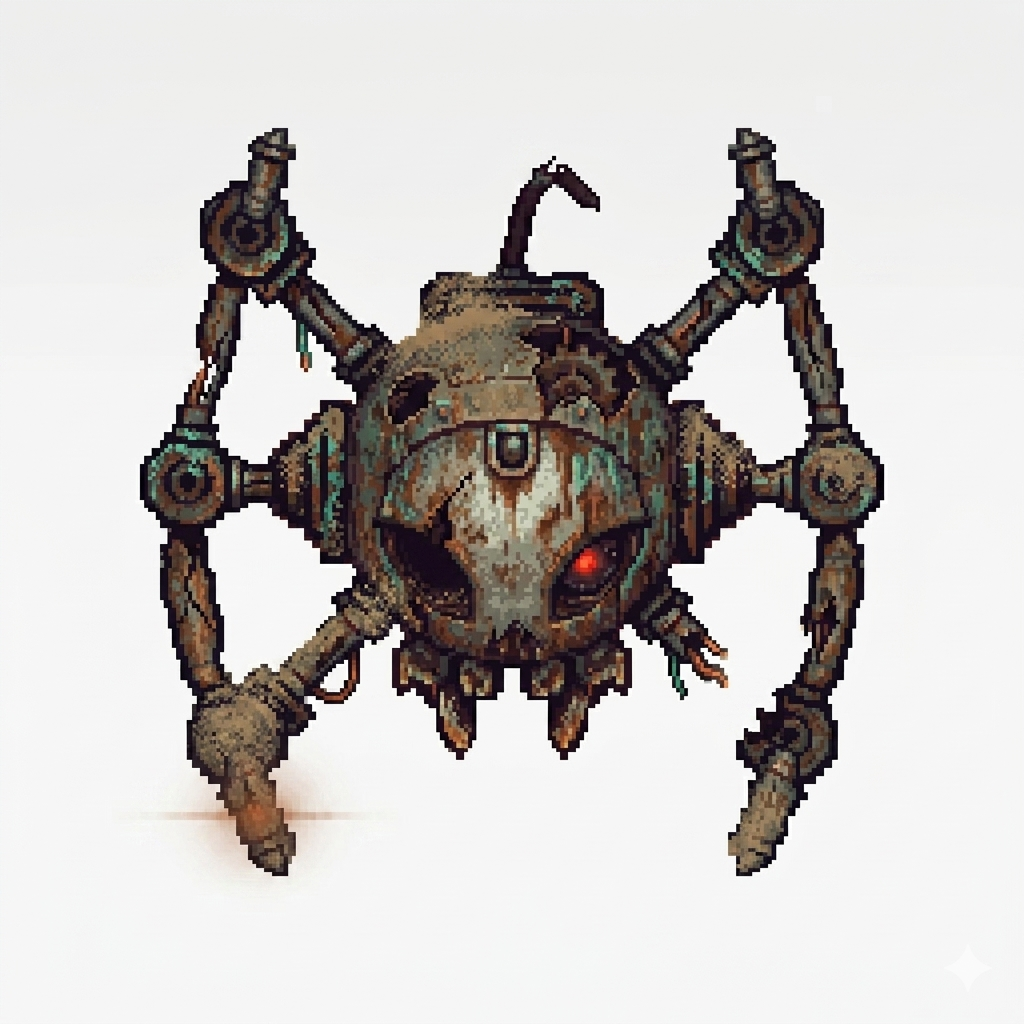
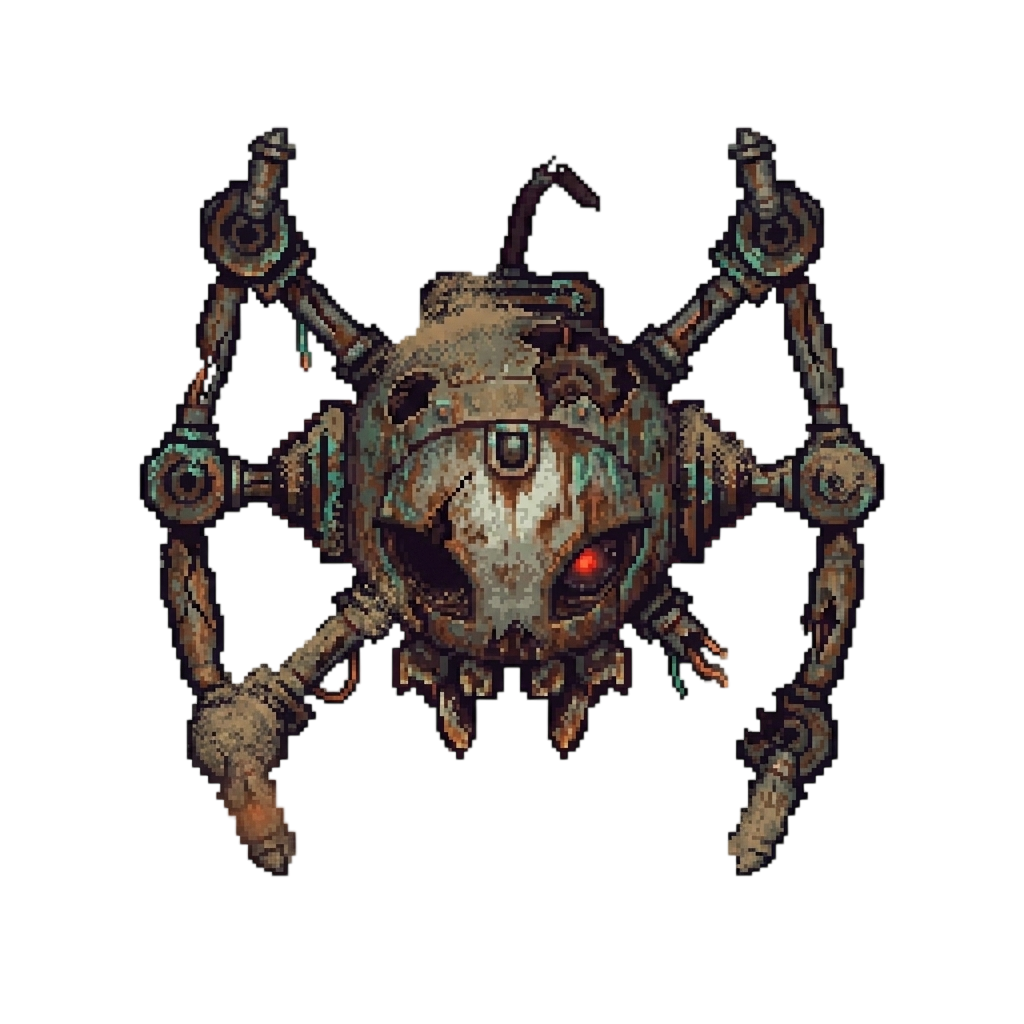
fix: consertando hitbox da arena e pngs falsos
- Eliminando o background falso dos assets dos inimigos
- Ajustando a hitbox da arena (Tentativa e erro)

diff --git a/js/colisao.js b/js/colisao.js
@@ -13,20 +13,20 @@ export default class Colisao {
         this.paredesRelativas = [
 
             // CANTO SUPERIOR ESQUERDO
-            { xPct: 0.172, yPct: 0.134, larguraPct: 0.277, alturaPct: 0.063 },
-            { xPct: 0.176, yPct: 0.134, larguraPct: 0.028, alturaPct: 0.352 },
+            { xPct: 0.170, yPct: 0.134, larguraPct: 0.275, alturaPct: 0.064 },
+            { xPct: 0.176, yPct: 0.134, larguraPct: 0.028, alturaPct: 0.325 },
 
             // CANTO SUPERIOR DIREITO
-            { xPct: 0.584, yPct: 0.141, larguraPct: 0.259, alturaPct: 0.056 },
-            { xPct: 0.822, yPct: 0.141, larguraPct: 0.027, alturaPct: 0.352 },
+            { xPct: 0.574, yPct: 0.137, larguraPct: 0.251, alturaPct: 0.060 },
+            { xPct: 0.802, yPct: 0.131, larguraPct: 0.027, alturaPct: 0.335 },
 
             // CANTO INFERIOR ESQUERDO
-            { xPct: 0.176, yPct: 0.577, larguraPct: 0.035, alturaPct: 0.282 },
-            { xPct: 0.176, yPct: 0.804, larguraPct: 0.268, alturaPct: 0.056 },
+            { xPct: 0.170, yPct: 0.575, larguraPct: 0.030, alturaPct: 0.265 },
+            { xPct: 0.170, yPct: 0.804, larguraPct: 0.260, alturaPct: 0.040 },
 
             // CANTO INFERIOR DIREITO
-            { xPct: 0.817, yPct: 0.563, larguraPct: 0.035, alturaPct: 0.296 },
-            { xPct: 0.570, yPct: 0.795, larguraPct: 0.282, alturaPct: 0.063 },
+            { xPct: 0.800, yPct: 0.550, larguraPct: 0.035, alturaPct: 0.296 },
+            { xPct: 0.558, yPct: 0.795, larguraPct: 0.275, alturaPct: 0.050 },
         ];
 
         // desenha paredes debug

diff --git a/css/style.css b/css/style.css
@@ -28,7 +28,8 @@ body {
 }
 
 .rato_base {
-    background-image: url(../assets/images/rato_radioativo.jpg);
+    background-image: url(../assets/images/rato_radioativo.png);
+    z-index: 30; /* Pra poder ficar na frente das camadas da arena*/
     width: 60px;
     height: 60px;
     background-size: contain;
@@ -39,6 +40,7 @@ body {
 
 .rato_v2 {
     background-image: url(../assets/images/rato_radioativo_2.png);
+    z-index: 30; /* Pra poder ficar na frente das camadas da arena*/
     width: 60px;
     height: 60px;
     background-size: contain;
@@ -48,7 +50,8 @@ body {
 }
 
 .besouro {
-    background-image: url(../assets/images/inimigo.png);
+    background-image: url(../assets/images/besouro.png);
+    z-index: 30; /* Pra poder ficar na frente das camadas da arena*/
     width: 60px;
     height: 60px;
     background-size: contain;
@@ -59,6 +62,7 @@ body {
 
 .robo_base {
     background-image: url(../assets/images/robo01.jpg);
+    z-index: 30; /* Pra poder ficar na frente das camadas da arena*/
     width: 60px;
     height: 60px;
     background-size: contain;
@@ -67,8 +71,9 @@ body {
     position: absolute;
 }
 
-.rato_v2 {
+.robo_v2 {
     background-image: url(../assets/images/robo_02.png);
+    z-index: 30; /* Pra poder ficar na frente das camadas da arena*/
     width: 60px;
     height: 60px;
     background-size: contain;

diff --git a/js/inimigo.js b/js/inimigo.js
@@ -95,9 +95,7 @@ export class Inimigo extends Entidade {
 
             fechada.add(`${atual.x},${atual.y}`);
 
-            // ====================================
             // limite de profundidade
-            // ====================================
 
             if (atual.g >= MAX_PASSOS) {
 